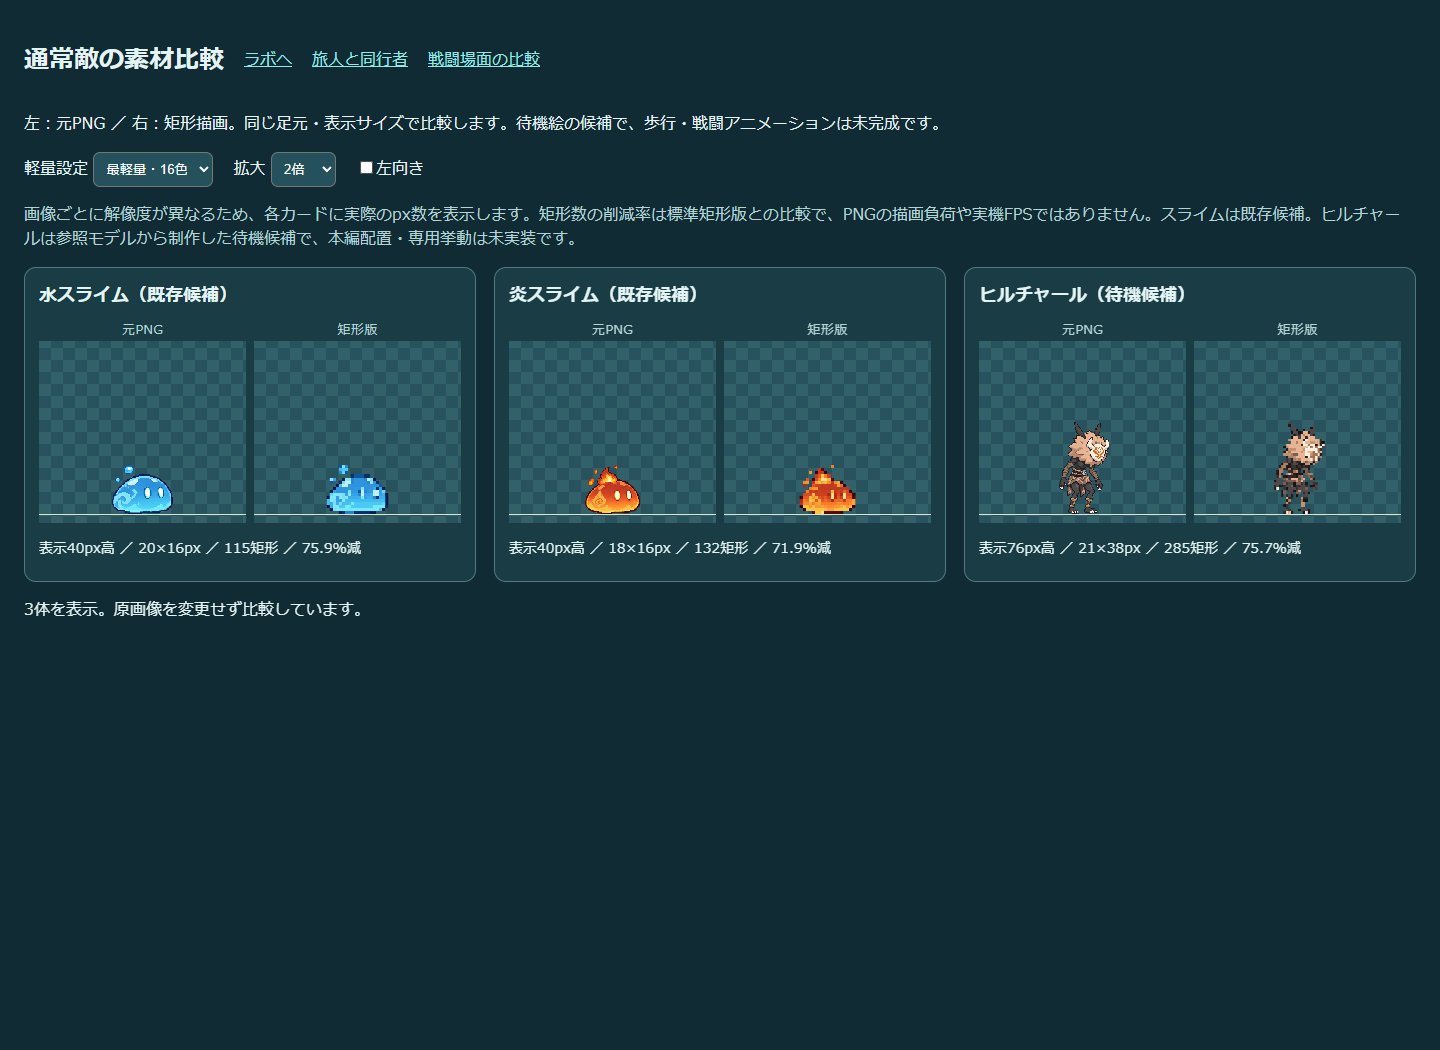
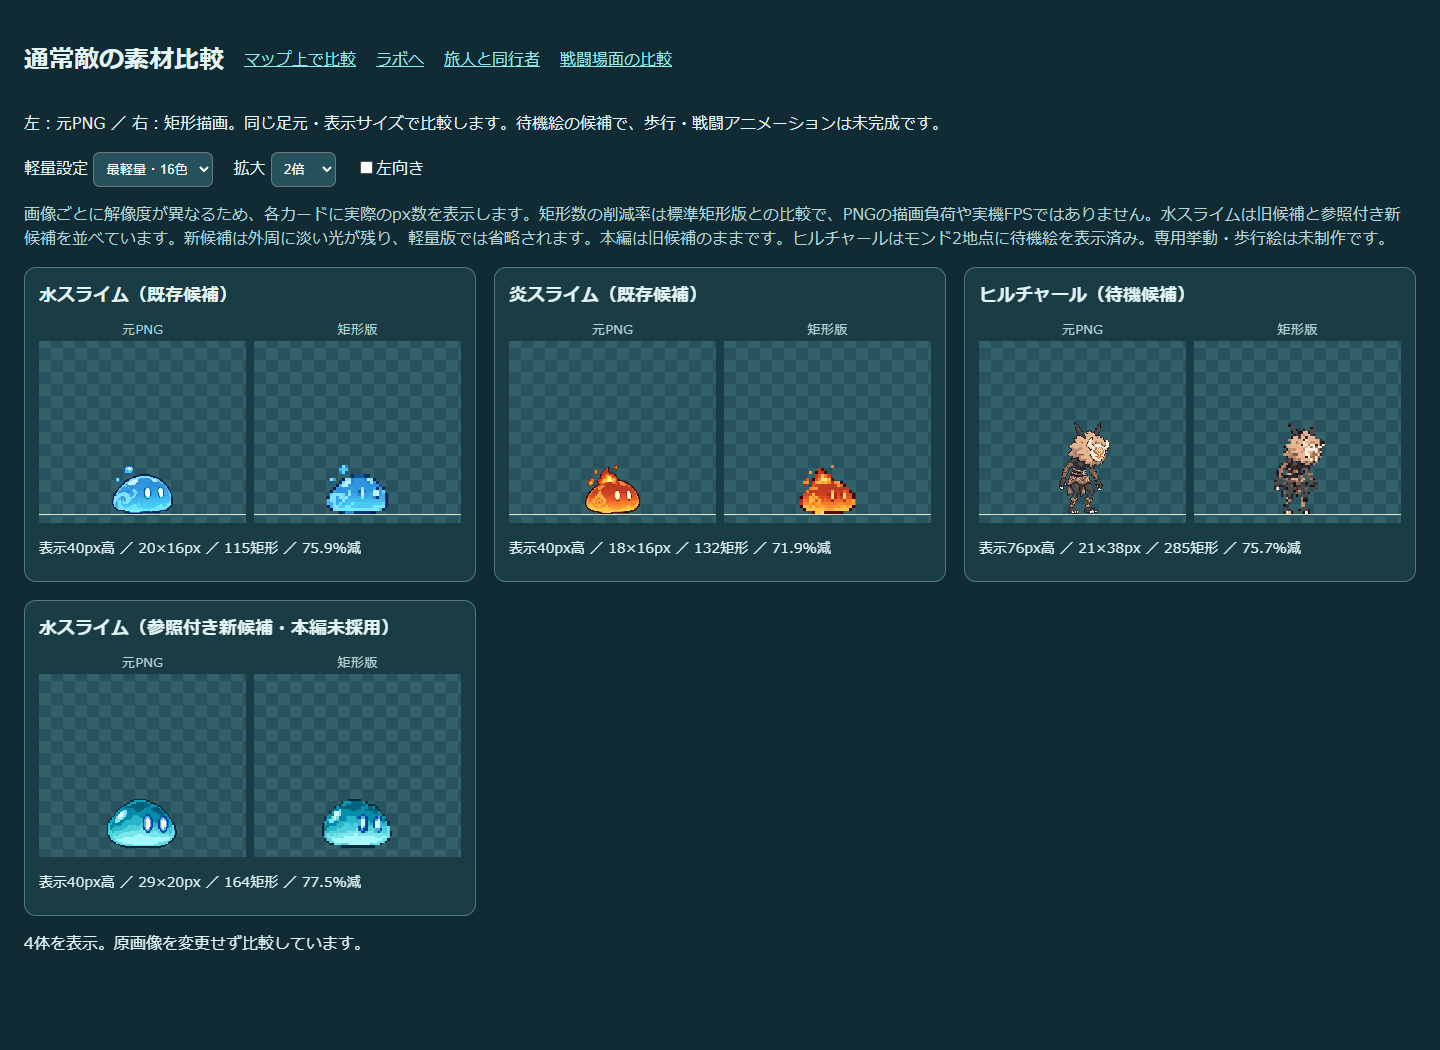
Add image-referenced Hydro Slime candidate alongside existing art

diff --git a/enemies-art.html b/enemies-art.html
@@ -3,5 +3,5 @@
 <header><h1>通常敵の素材比較</h1><a href="map-art.html">マップ上で比較</a><a href="index.html">ラボへ</a><a href="characters-art.html">旅人と同行者</a><a href="compare.html">戦闘場面の比較</a></header>
 <p>左：元PNG ／ 右：矩形描画。同じ足元・表示サイズで比較します。待機絵の候補で、歩行・戦闘アニメーションは未完成です。</p>
 <header><label>軽量設定 <select id="profile"><option value="legacy">標準</option><option value="h48c32">中間・32色</option><option value="h32c16" selected>最軽量・16色</option></select></label><label>拡大 <select id="zoom"><option value="1">実寸</option><option value="2" selected>2倍</option><option value="3">3倍</option></select></label><label><input type="checkbox" id="flip">左向き</label></header>
-<p class="note">画像ごとに解像度が異なるため、各カードに実際のpx数を表示します。矩形数の削減率は標準矩形版との比較で、PNGの描画負荷や実機FPSではありません。スライムは既存候補。ヒルチャールは参照モデルから制作した待機候補で、本編配置・専用挙動は未実装です。</p>
+<p class="note">画像ごとに解像度が異なるため、各カードに実際のpx数を表示します。矩形数の削減率は標準矩形版との比較で、PNGの描画負荷や実機FPSではありません。水スライムは旧候補と参照付き新候補を並べています。新候補は外周に淡い光が残り、軽量版では省略されます。本編は旧候補のままです。ヒルチャールはモンド2地点に待機絵を表示済み。専用挙動・歩行絵は未制作です。</p>
 <main id="cards"></main><p id="status" role="status">読み込み中</p><script type="module" src="characters-art.js"></script></html>

diff --git a/characters-art.js b/characters-art.js
@@ -7,6 +7,7 @@ try{
   const variants=(await json('assets/variants.json')).variants;
   for(const [id,name,index] of [['hydro-slime','水スライム（既存候補）',4],['pyro-slime','炎スライム（既存候補）',6]]){const profiles=Object.fromEntries(['legacy','h48c32','h32c16'].map(k=>[k,variants[k].sprites[index]]));await add(id,name,{source:'atlas-transparent.png',box:profiles.legacy.box,profiles},40)}
   await add('hilichurl','ヒルチャール（待機候補）',await json('assets/hilichurl-idle-sprites.json'),76);
+  await add('hydro-slime-reference','水スライム（参照付き新候補・本編未採用）',await json('assets/hydro-slime-idle-sprites.json'),40);
  }else{
  await add('traveler','旅人',await json('assets/traveler-idle-sprites.json'),88);
  await add('amber','アンバー',await json('assets/amber-idle-sprites.json'),88);

diff --git a/CHAT_HANDOFF.md b/CHAT_HANDOFF.md
@@ -172,3 +172,9 @@ map-art.html追加: 本編61仮地点の足場/背景を選択し、元PNGと軽
 
 本編の敵配置をcontent/enemy-spawns.jsonへ分離。26地点各6体=156体を地上4/上段2へ仮配置、足場IDから高さを算出。モンド街道/国境の各1体に参照確認済みヒルチャール待機絵を接続。PNG/3軽量設定対応、旧共通挙動・技を維持。上段敵が誘引で足場外へ出ない範囲制限を追加。61地点の敵数/接地/誘引/再出現・描画3設定、既存story19件、26地点移動検査通過。ブラウザで町から歩いて街道門を通過し6体とヒルチャールPNG/矩形表示を検査、画面目視。地域固有敵種/歩行絵/専用技/本番3D未完。配置比較画面の編集案は本編へ自動反映しない。
 根拠: evidence/story-enemy-spawns.json, evidence/story-enemy-browser.json, evidence/story-enemy-browser.png。
+
+
+## 2026-11-17 水スライム参照付き候補
+
+水スライムのHoYoWiki画像3枚を直接確認（うち2枚同一元絵）、モデルはMMD API404/別配布ZIP取得不可で未確認。2画像参照付き候補v1/v2生成、外周の淡い光が残る制約を明記。40/30/20pxで728/415/164矩形、77.47%減。敵比較に旧候補を残して新候補追加、4候補3設定3倍率左右/390pxと9人ギャラリー検査通過。最軽量でも2眼/体色は判別、旧候補より矩形数多い。待機候補のみ、本編/配置プレビューは旧atlas維持、技変更なし。
+根拠: evidence/hydro-slime-reference-audit.json, evidence/enemies-gallery.png。
